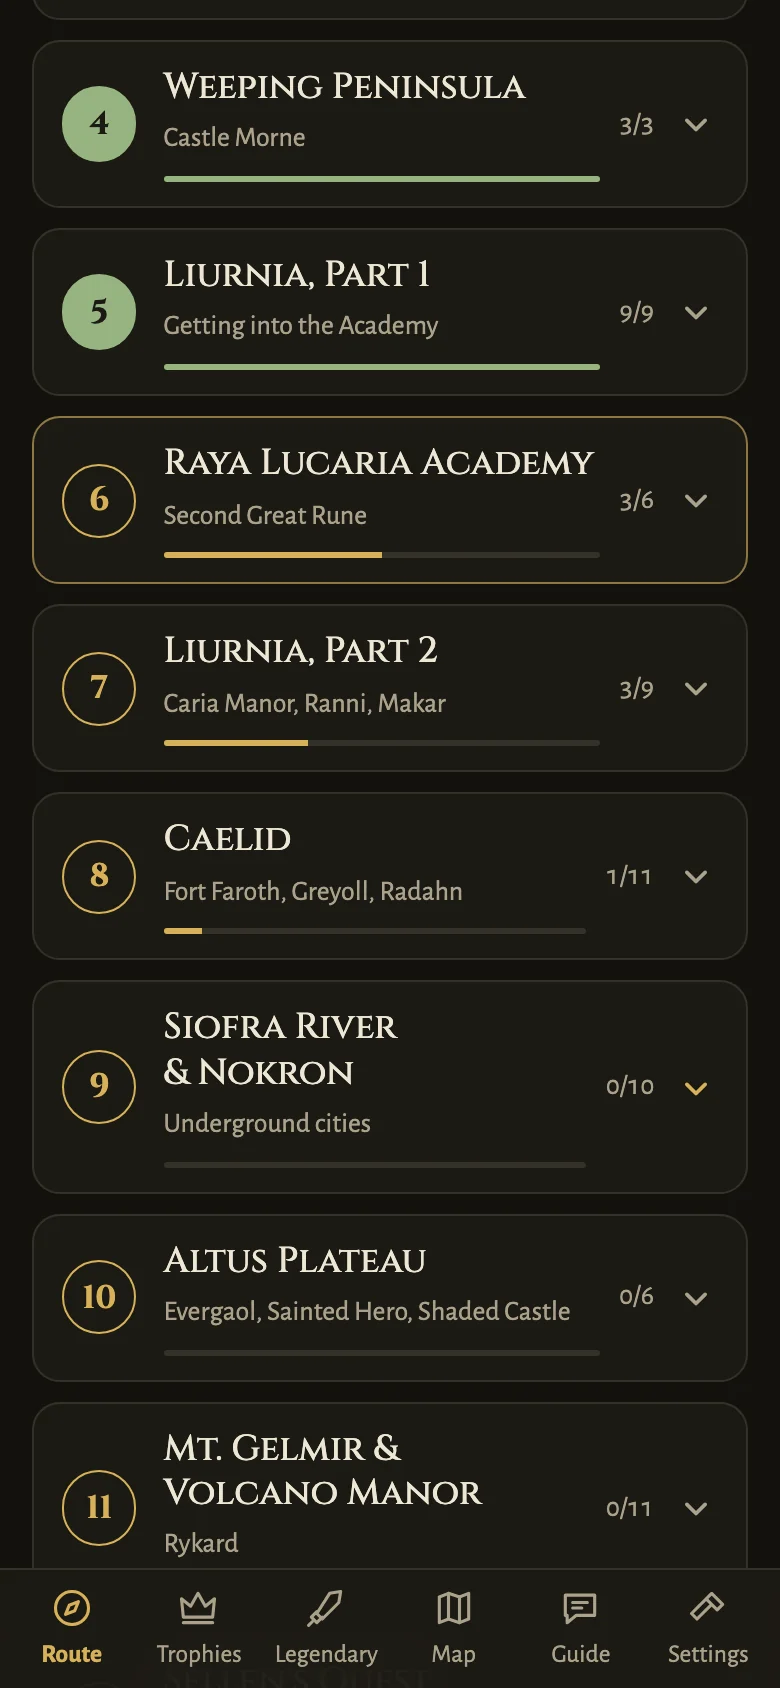
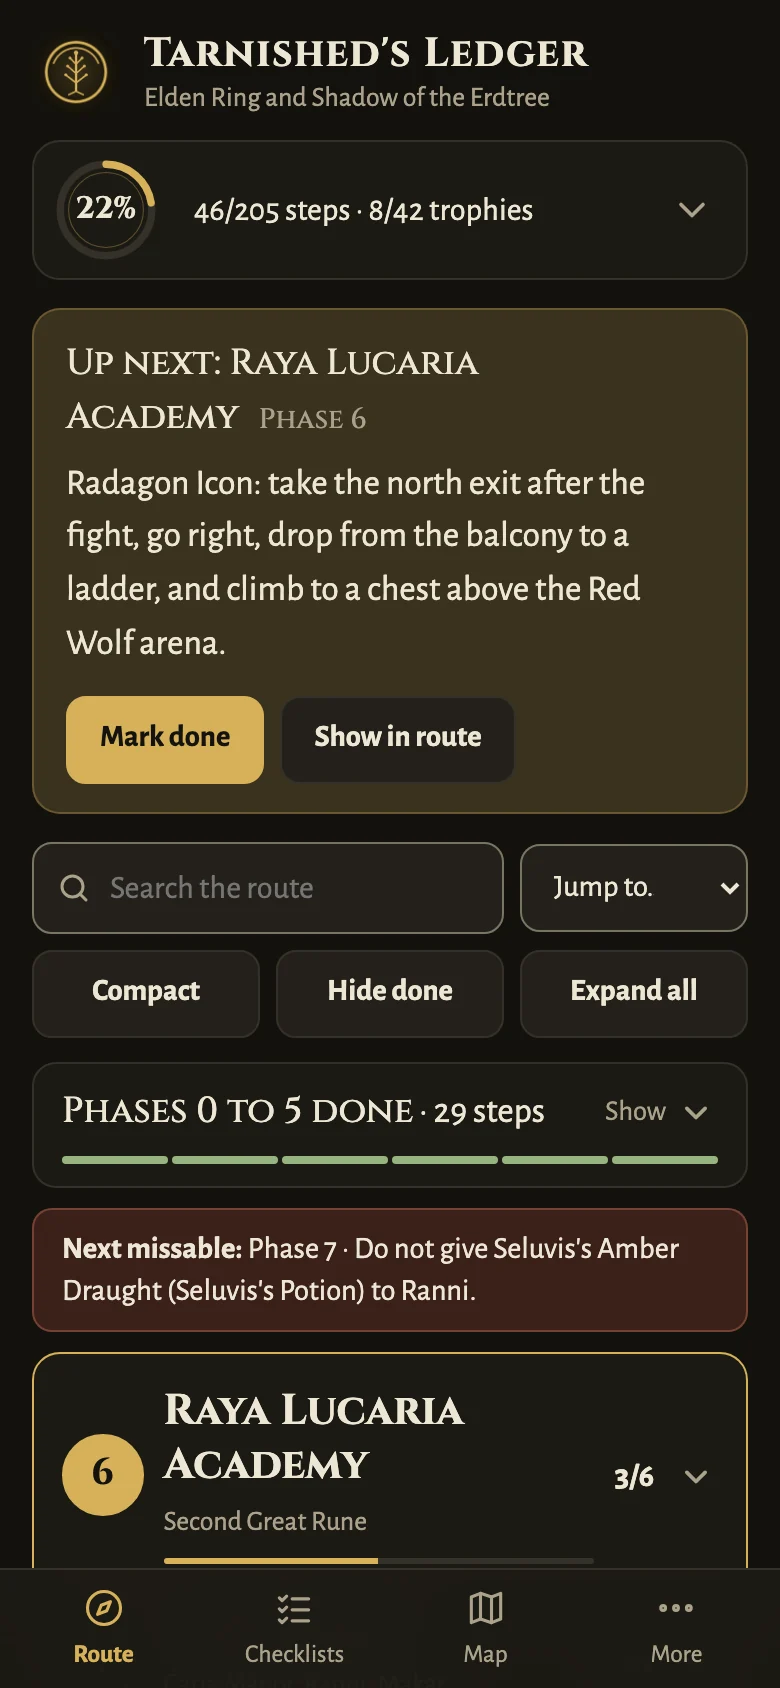
README screenshots retaken after the route, navigation and step-row changes

diff --git a/README.md b/README.md
@@ -46,7 +46,7 @@ Shadow of the Erdtree can be switched on in Settings. The DLC has no trophies, s
     <td width="50%"><img src="docs/screenshots/goals-phone-light.webp" alt="Shadow of the Erdtree goals and blessing counters on a phone, light theme"></td>
   </tr>
   <tr>
-    <td align="center"><sub>Route: finished, half-done and untouched phases at a glance</sub></td>
+    <td align="center"><sub>Route on a phone: finished phases fold into one row, the current phase leads</sub></td>
     <td align="center"><sub>Shadow of the Erdtree goals and counters</sub></td>
   </tr>
 </table>
